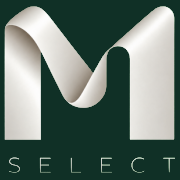
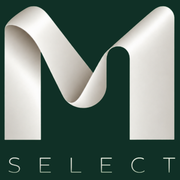
Preserve Select lettering clarity at small display sizes

diff --git a/src/portal/TeamWorkspace.tsx b/src/portal/TeamWorkspace.tsx
@@ -77,7 +77,7 @@ export default function TeamWorkspace({user,onSignedOut,onUserChanged}:{user:Tea
   const rows=items.filter(item=>(filter==='Todas'||item.stage===filter)&&(item.title+' '+item.city+' '+item.owner).toLocaleLowerCase('pt-BR').includes(query.toLocaleLowerCase('pt-BR')));
   const casesTable=<div className="ps-table-scroll"><table className="ps-table"><thead><tr><th>Imóvel</th><th>Etapa</th><th>Responsável</th><th>Atualização</th><th><span className="ps-sr-only">Dossiê</span></th></tr></thead><tbody>{(page==='hoje'?items.slice(0,5):rows).map(item=><tr key={item.id}><td><button className="ps-property-cell" onClick={()=>openDetail(item.id)}><span className="pt-house-icon"><House size={19}/></span><span><strong>{item.title}</strong><small>{item.city} · {item.type}</small></span></button></td><td><span className={'ps-tag '+(item.stage==='Ajustes solicitados'?'ps-tag--amber':'')}>{item.stage}</span></td><td>{item.assignee}</td><td>{stamp(item.updated_at)}</td><td><button className="ps-icon" aria-label={'Abrir avaliação '+item.title} onClick={()=>openDetail(item.id)}><ArrowUpRight size={17}/></button></td></tr>)}</tbody></table></div>;
   const title=pageInfo?.title||'Área indisponível.';
-  return <div className="select-portal pt-live"><a className="ps-skip" href="#portal-conteudo">Pular para o conteúdo</a>{mobile&&<button className="ps-menu-backdrop" aria-label="Fechar navegação" onClick={()=>setMobile(false)}/>}<aside className={'ps-sidebar'+(mobile?' is-open':'')}><a className="ps-brand" href="/portalselect"><img src="/assets/select-ribbon-lockup.svg" alt=""/><span>PORTAL</span></a><nav aria-label="Navegação da equipe">{activeLinks.map((link,index)=><Fragment key={link.id}>{activeLinks[index-1]?.group!==link.group&&<p className="ps-nav-group">{link.group}</p>}<a href={portalPath(link.id)} aria-label={link.label} aria-current={page===link.id?'page':undefined} title={link.label+(link.status==='planned'?' · Em desenvolvimento':'')} onClick={e=>navigate(e,link.id)}><link.icon size={18}/><span className="pt-nav-label">{link.label}{link.status==='planned'&&<small>Em desenvolvimento</small>}</span></a></Fragment>)}<a href="/#/" title="Site EME"><ArrowUpRight size={18}/><span>Site EME Select</span></a></nav><div className="ps-sidebar-bottom"><button className="pt-signout" onClick={signOut} title="Sair da conta"><LogOut size={17}/><span>Sair da conta</span></button><div className="ps-account"><span>{user.name.split(' ').slice(0,2).map(n=>n[0]).join('')}</span><div><strong>{user.name}</strong><small>{user.role==='admin'?'Administrador':'Corretor'}</small></div></div></div></aside>
+  return <div className="select-portal pt-live"><a className="ps-skip" href="#portal-conteudo">Pular para o conteúdo</a>{mobile&&<button className="ps-menu-backdrop" aria-label="Fechar navegação" onClick={()=>setMobile(false)}/>}<aside className={'ps-sidebar'+(mobile?' is-open':'')}><a className="ps-brand" href="/portalselect"><img src="/assets/select-ribbon-lockup.webp" alt=""/><span>PORTAL</span></a><nav aria-label="Navegação da equipe">{activeLinks.map((link,index)=><Fragment key={link.id}>{activeLinks[index-1]?.group!==link.group&&<p className="ps-nav-group">{link.group}</p>}<a href={portalPath(link.id)} aria-label={link.label} aria-current={page===link.id?'page':undefined} title={link.label+(link.status==='planned'?' · Em desenvolvimento':'')} onClick={e=>navigate(e,link.id)}><link.icon size={18}/><span className="pt-nav-label">{link.label}{link.status==='planned'&&<small>Em desenvolvimento</small>}</span></a></Fragment>)}<a href="/#/" title="Site EME"><ArrowUpRight size={18}/><span>Site EME Select</span></a></nav><div className="ps-sidebar-bottom"><button className="pt-signout" onClick={signOut} title="Sair da conta"><LogOut size={17}/><span>Sair da conta</span></button><div className="ps-account"><span>{user.name.split(' ').slice(0,2).map(n=>n[0]).join('')}</span><div><strong>{user.name}</strong><small>{user.role==='admin'?'Administrador':'Corretor'}</small></div></div></div></aside>
   <div className="ps-workspace"><header className="ps-topbar"><div className="ps-breadcrumb"><button className="ps-icon ps-mobile-toggle" aria-label="Abrir navegação" aria-expanded={mobile} onClick={()=>setMobile(!mobile)}><Menu size={20}/></button><span>Equipe EME</span><ChevronRight size={13}/><strong>{activeLinks.find(l=>l.id===page)?.label||'Portal'}</strong></div><div className="ps-topbar-actions"><span className="pt-online"><i/>Área da equipe</span><button className="ps-icon" aria-label="Atualizar dados" disabled={loading} onClick={()=>setRevision(v=>v+1)}><RefreshCw size={16}/></button></div></header><div className="pt-live-bar"><ShieldCheck size={14}/><span>Conta individual · cadastros salvos no servidor</span><span>Uma operação, um único portal</span></div>
   <main className="ps-main" id="portal-conteudo"><div className="ps-page-heading"><div><span className="ps-overline">PORTAL SELECT / EQUIPE</span><h1 ref={heading} tabIndex={-1}>{title}</h1><p>{page==='hoje'?'Bem-vindo, '+user.name.split(' ')[0]+'. '+pageInfo?.description:pageInfo?.description||'Escolha uma das áreas disponíveis para sua conta.'}</p></div>{(page==='hoje'||page==='avaliacoes')&&<button className="ps-button ps-button--primary" disabled={loading||Boolean(error)} onClick={()=>setNewCase(true)}><Plus size={17}/>Nova avaliação</button>}{page==='equipe'&&user.role==='admin'&&<button className="ps-button ps-button--primary" onClick={()=>setNewMember(true)}><Plus size={17}/>Adicionar pessoa</button>}</div>
   {error?<div className="pt-error" role="alert">{error}<button className="ps-text-button" onClick={()=>setRevision(v=>v+1)}>Tentar novamente</button></div>:loading?<div className="ps-card pt-loading" role="status">Carregando os cadastros da equipe…</div>:<>

diff --git a/src/portal/PortalEntry.tsx b/src/portal/PortalEntry.tsx
@@ -40,7 +40,7 @@ export default function PortalEntry() {
   }
   if(session?.user&&!session.user.mustChangePassword&&/^\/portalselect\/previa\/[a-f0-9-]{36}$/.test(location.pathname))return <Suspense fallback={<p>Preparando anúncio…</p>}><ListingPreview/></Suspense>;
   if(session?.user&&!session.user.mustChangePassword)return <TeamWorkspace user={session.user} onSignedOut={()=>{setSession({user:null,needsSetup:false});setError('');}} onUserChanged={user=>setSession({user,needsSetup:false})}/>;
-  return <div className="select-portal pt-access"><section className="pt-access-story"><a href="/#/" className="pt-access-brand"><img src="/assets/select-ribbon-lockup.svg" alt="EME Select"/><span>PORTAL DA EQUIPE</span></a><div><span className="ps-overline">O ESPAÇO DA NOSSA EQUIPE</span><h1>Um olhar atento.<br/><em>Em cada detalhe.</em></h1><p>Organize os primeiros imóveis, acompanhe cada avaliação e construa o padrão EME com a sua equipe.</p><div className="pt-access-features"><span><ClipboardSymbol/>Cadastros acompanhados</span><span><Users size={16}/>Responsabilidades claras</span><span><ShieldCheck size={16}/>Histórico de cada decisão</span></div></div><a href="/#/">Voltar ao site <ArrowUpRight size={15}/></a></section><section className="pt-access-form"><div className="pt-access-form-inner"><span className="pt-lock"><KeyRound size={22}/></span><span className="ps-overline">{isLocal?'ACESSO LOCAL DA EQUIPE':'ACESSO DA EQUIPE'}</span>
+  return <div className="select-portal pt-access"><section className="pt-access-story"><a href="/#/" className="pt-access-brand"><img src="/assets/select-ribbon-lockup.webp" alt="EME Select"/><span>PORTAL DA EQUIPE</span></a><div><span className="ps-overline">O ESPAÇO DA NOSSA EQUIPE</span><h1>Um olhar atento.<br/><em>Em cada detalhe.</em></h1><p>Organize os primeiros imóveis, acompanhe cada avaliação e construa o padrão EME com a sua equipe.</p><div className="pt-access-features"><span><ClipboardSymbol/>Cadastros acompanhados</span><span><Users size={16}/>Responsabilidades claras</span><span><ShieldCheck size={16}/>Histórico de cada decisão</span></div></div><a href="/#/">Voltar ao site <ArrowUpRight size={15}/></a></section><section className="pt-access-form"><div className="pt-access-form-inner"><span className="pt-lock"><KeyRound size={22}/></span><span className="ps-overline">{isLocal?'ACESSO LOCAL DA EQUIPE':'ACESSO DA EQUIPE'}</span>
     {connectionError?<><h2>{serviceMissing?'O portal online está em preparação.':'Vamos reconectar.'}</h2><p className="pt-error" role="alert">{serviceMissing?'Não foi possível acessar o serviço da equipe neste endereço. Tente novamente ou procure o administrador da EME.':connectionError}</p><button className="ps-button" onClick={()=>setReload(value=>value+1)}>Tentar novamente</button></>:!session?<><h2>Preparando seu espaço.</h2><p role="status">Verificando o acesso…</p></>:session.user?.mustChangePassword?<><h2>Uma senha só sua.</h2><p>Substitua a senha inicial para começar a usar sua conta.</p><PasswordForm onDone={user=>setSession({user,needsSetup:false})}/></>:<><h2>{session.needsSetup?'Seu acesso começa aqui.':'Bem-vindo de volta.'}</h2><p>{session.needsSetup?'Crie a conta do administrador autorizado. Depois, você poderá adicionar as pessoas da equipe.':'Entre com sua conta para acompanhar a operação.'}</p><form className="ps-form" onSubmit={submit}>{session.needsSetup&&<label>Seu nome<input required minLength={2} maxLength={80} autoComplete="name" value={name} onChange={e=>setName(e.target.value)}/></label>}<>{session?.needsSetup&&session.requiresActivation&&<label>Código privado de ativação<input required type="password" autoComplete="off" value={activationToken} onChange={e=>setActivationToken(e.target.value)}/></label>}</><label>E-mail<input required type="email" maxLength={180} autoComplete="username" value={email} onChange={e=>setEmail(e.target.value)}/></label><label>Senha<input required type="password" minLength={session.needsSetup?12:1} maxLength={128} autoComplete={session.needsSetup?'new-password':'current-password'} value={password} onChange={e=>setPassword(e.target.value)}/></label>{session.needsSetup&&<><label>Confirme sua senha<input required type="password" minLength={12} maxLength={128} autoComplete="new-password" value={confirm} onChange={e=>setConfirm(e.target.value)}/></label><small>Use de 12 a 128 caracteres. Esta configuração inicial acontece apenas uma vez.</small></>}{error&&<p className="pt-error" role="alert">{error}</p>}<button className="ps-button ps-button--primary" disabled={busy}>{busy?'Aguarde…':session.needsSetup?'Criar meu acesso':'Entrar no portal'}<ArrowRight size={17}/></button></form></>}
     <small className="pt-local-note">{isLocal?'Esta instalação funciona neste computador. Use sua conta individual para acessar os cadastros da equipe.':'Acesso individual da equipe. Seus registros e permissões são os mesmos em todas as áreas do portal.'}</small></div></section></div>;
 }

diff --git a/src/landing/landing.html b/src/landing/landing.html
@@ -7,7 +7,7 @@
     </div>
     <div class="em-shade" aria-hidden="true"></div>
     <header class="em-header">
-      <a class="em-logo" href="#/" aria-label="EME Select — início"><img class="select-mark" src="/assets/select-ribbon-lockup.svg" width="66" height="64" alt="" aria-hidden="true" /></a>
+      <a class="em-logo" href="#/" aria-label="EME Select — início"><img class="select-mark" src="/assets/select-ribbon-lockup.webp" width="66" height="64" alt="" aria-hidden="true" /></a>
       <nav class="em-header-nav" aria-label="Navegação principal">
         <a class="em-all-link" href="#/colecao">Todos os imóveis ↗</a>
         <form class="em-search-form" data-search-form role="search" aria-label="Busca natural de imóveis">
@@ -140,7 +140,7 @@
     <section class="ef-contact" id="ef-contato" aria-labelledby="ef-contact-title"><p class="ef-kicker">Uma conversa faz a diferença</p><h2 id="ef-contact-title">Conte o que você<br>quer viver.</h2><p>A próxima escolha começa com o que importa para você.</p><a class="ef-button ef-button-light cursor-interaction" href="https://wa.me/5554991578029?text=Ol%C3%A1%21%20Gostaria%20de%20conversar%20sobre%20o%20im%C3%B3vel%20que%20procuro." target="_blank" rel="noopener noreferrer">Conversar com a EME <svg xmlns="http://www.w3.org/2000/svg" width="16" height="16" viewBox="0 0 24 24" fill="none" stroke="currentColor" stroke-width="1.5" stroke-linecap="round" stroke-linejoin="round" class="lucide lucide-arrow-up-right" aria-hidden="true"><path d="M7 7h10v10"></path><path d="M7 17 17 7"></path></svg></a><span class="ef-contact-phone">WhatsApp · (54) 99157-8029</span></section>
   </main>
 
-  <footer class="ef-footer"><div class="ef-footer-top"><a class="ef-footer-logo cursor-interaction" href="#eme-select-completa" aria-label="EME Select, voltar ao início"><img class="select-mark" src="/assets/select-ribbon-lockup.svg" width="66" height="64" alt="" aria-hidden="true" /></a><p>Imóveis selecionados.<br>Rio Grande do Sul.</p><nav aria-label="Navegação do rodapé"><a class="cursor-interaction" href="#ef-colecao">A coleção</a><a class="cursor-interaction" href="#ef-empreendimentos">Lançamentos</a><a class="cursor-interaction" href="#ef-eme">A EME</a><a class="cursor-interaction" href="/portalselect">Portal da equipe ↗</a></nav></div><div class="ef-footer-bottom"><span>© 2026 EME Select</span><details><summary class="cursor-interaction">Privacidade</summary><p>Ao iniciar uma conversa pelo WhatsApp, você escolhe o que enviar e passa a utilizar um serviço externo. A busca por voz, quando acionada, utiliza o reconhecimento de fala do navegador, que pode processar áudio em seu serviço. Para informações sobre seus dados, entre em contato com a equipe da EME Select.</p></details><a class="cursor-interaction" href="#eme-select-completa">Voltar ao início ↑</a></div></footer>
+  <footer class="ef-footer"><div class="ef-footer-top"><a class="ef-footer-logo cursor-interaction" href="#eme-select-completa" aria-label="EME Select, voltar ao início"><img class="select-mark" src="/assets/select-ribbon-lockup.webp" width="66" height="64" alt="" aria-hidden="true" /></a><p>Imóveis selecionados.<br>Rio Grande do Sul.</p><nav aria-label="Navegação do rodapé"><a class="cursor-interaction" href="#ef-colecao">A coleção</a><a class="cursor-interaction" href="#ef-empreendimentos">Lançamentos</a><a class="cursor-interaction" href="#ef-eme">A EME</a><a class="cursor-interaction" href="/portalselect">Portal da equipe ↗</a></nav></div><div class="ef-footer-bottom"><span>© 2026 EME Select</span><details><summary class="cursor-interaction">Privacidade</summary><p>Ao iniciar uma conversa pelo WhatsApp, você escolhe o que enviar e passa a utilizar um serviço externo. A busca por voz, quando acionada, utiliza o reconhecimento de fala do navegador, que pode processar áudio em seu serviço. Para informações sobre seus dados, entre em contato com a equipe da EME Select.</p></details><a class="cursor-interaction" href="#eme-select-completa">Voltar ao início ↑</a></div></footer>
 </div>
 
   

diff --git a/src/App.tsx b/src/App.tsx
@@ -53,7 +53,7 @@ function Header({ tour, favorites, onFavorites, onContact }: { tour: boolean; fa
   }, [exploreOpen]);
   return <header className={`site-header${tour ? ' site-header--tour' : ''}`}>
     <a className="brand brand--emerald" href="#/" aria-label="EME Select — início">
-      <img className="select-mark" src="/assets/select-ribbon-lockup.svg" width="66" height="64" alt="" aria-hidden="true" />
+      <img className="select-mark" src="/assets/select-ribbon-lockup.webp" width="66" height="64" alt="" aria-hidden="true" />
     </a>
     <nav className="desktop-nav" aria-label="Navegação principal">
       <div className="desktop-explore-wrap" ref={exploreRef} onKeyDown={event => { if (event.key === 'Escape') { setExploreOpen(false); exploreRef.current?.querySelector('button')?.focus(); } }} onBlur={event => { if (!event.currentTarget.contains(event.relatedTarget as Node)) setExploreOpen(false); }}>
@@ -112,7 +112,7 @@ function OwnerPage() {
   return <main className="owners-page" id="conteudo"><section className="owners-intro"><span className="eyebrow">Para proprietários</span><h1>Seu imóvel.<br /><em>Um olhar à altura.</em></h1><p>Uma apresentação cuidadosa começa muito antes de um anúncio. Conte sobre o seu imóvel e dê o primeiro passo para uma avaliação pela nossa equipe.</p><ol><li><span>01</span><div><h2>Conhecemos o imóvel</h2><p>Características, localização, estado de conservação e seu objetivo.</p></div></li><li><span>02</span><div><h2>Construímos uma leitura</h2><p>Referências de mercado, documentação e critérios de entrada na coleção.</p></div></li><li><span>03</span><div><h2>Planejamos a apresentação</h2><p>Se selecionado, definimos juntos a estratégia de venda ou locação.</p></div></li></ol><p className="owners-note">O envio das informações inicia uma conversa e não garante a inclusão do imóvel no catálogo.</p></section><section className="owner-form-panel" aria-label="Apresentar meu imóvel"><OwnerForm onClose={() => { window.location.hash = '#/'; }} /></section></main>;
 }
 
-function Footer({ onPrivacy }: { onPrivacy: () => void }) { return <footer className="site-footer"><a href="#/" aria-label="EME Select — início"><img className="select-mark" src="/assets/select-ribbon-lockup.svg" width="66" height="64" alt="" aria-hidden="true" /></a><span>Rio Grande do Sul · Imóveis selecionados</span><button onClick={onPrivacy}>Privacidade</button><a href="/portalselect">Portal da equipe</a><a href={whatsappUrl('Olá! Gostaria de conhecer a EME Select.')} target="_blank" rel="noopener noreferrer">{CONTACT.display}<ArrowUpRight size={12} /></a></footer>; }
+function Footer({ onPrivacy }: { onPrivacy: () => void }) { return <footer className="site-footer"><a href="#/" aria-label="EME Select — início"><img className="select-mark" src="/assets/select-ribbon-lockup.webp" width="66" height="64" alt="" aria-hidden="true" /></a><span>Rio Grande do Sul · Imóveis selecionados</span><button onClick={onPrivacy}>Privacidade</button><a href="/portalselect">Portal da equipe</a><a href={whatsappUrl('Olá! Gostaria de conhecer a EME Select.')} target="_blank" rel="noopener noreferrer">{CONTACT.display}<ArrowUpRight size={12} /></a></footer>; }
 
 export default function App() {
   const hash = useSceneNavigation();

diff --git a/src/SubmissionPage.tsx b/src/SubmissionPage.tsx
@@ -20,7 +20,7 @@ export default function SubmissionPage() {
     <a className="skip-link" href="#ficha-imovel">Ir para o formulário</a>
     <header className="submission-site-header">
       <a className="submission-brand" href="/#/" aria-label="EME Select — início">
-        <img className="select-mark" src="/assets/select-ribbon-lockup.svg" width="66" height="64" alt="" aria-hidden="true" />
+        <img className="select-mark" src="/assets/select-ribbon-lockup.webp" width="66" height="64" alt="" aria-hidden="true" />
       </a>
       <a className="submission-back" href="/#/">Conheça a EME <ArrowUpRight size={16} aria-hidden="true" /></a>
     </header>

diff --git a/index.html b/index.html
@@ -7,7 +7,7 @@
     <meta name="description" content="EME Select. Imóveis selecionados. Uma nova forma de explorar, comprar e alugar." />
     <meta name="robots" content="noindex,nofollow" />
     <title>EME Select — Seu próximo lugar</title>
-    <link rel="icon" type="image/svg+xml" href="/assets/select-ribbon-lockup.svg" />
+    <link rel="icon" type="image/png" href="/assets/select-touch-icon.png" />
     <link rel="apple-touch-icon" href="/assets/select-touch-icon.png" />
   </head>
   <body>
